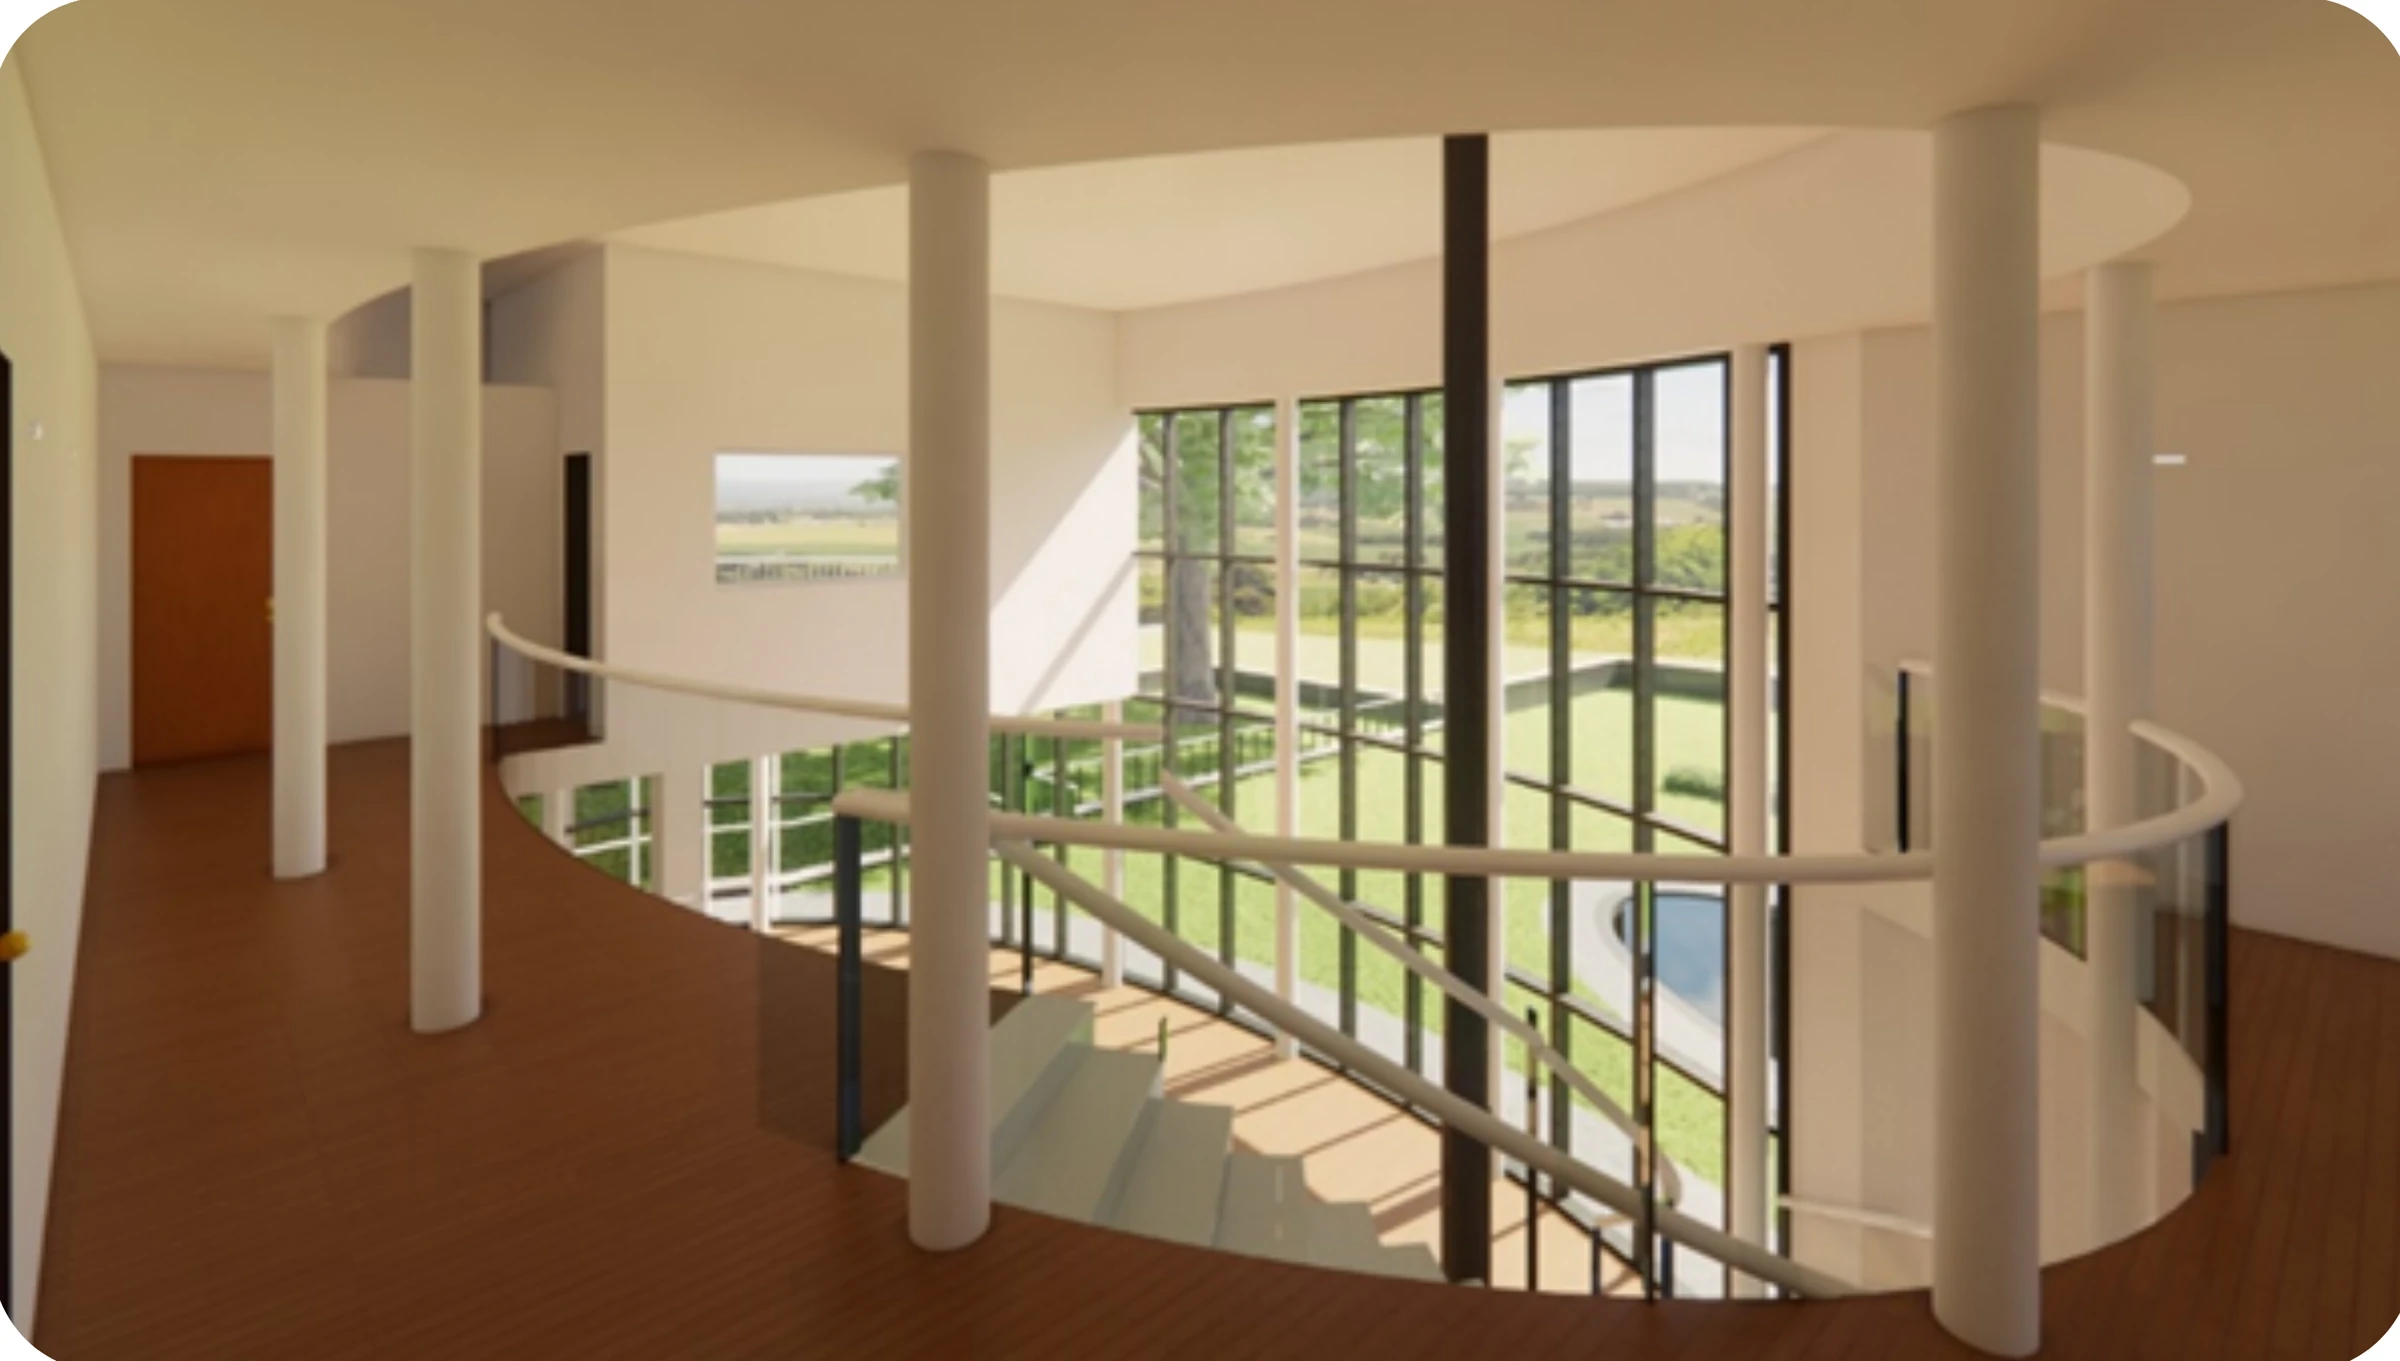
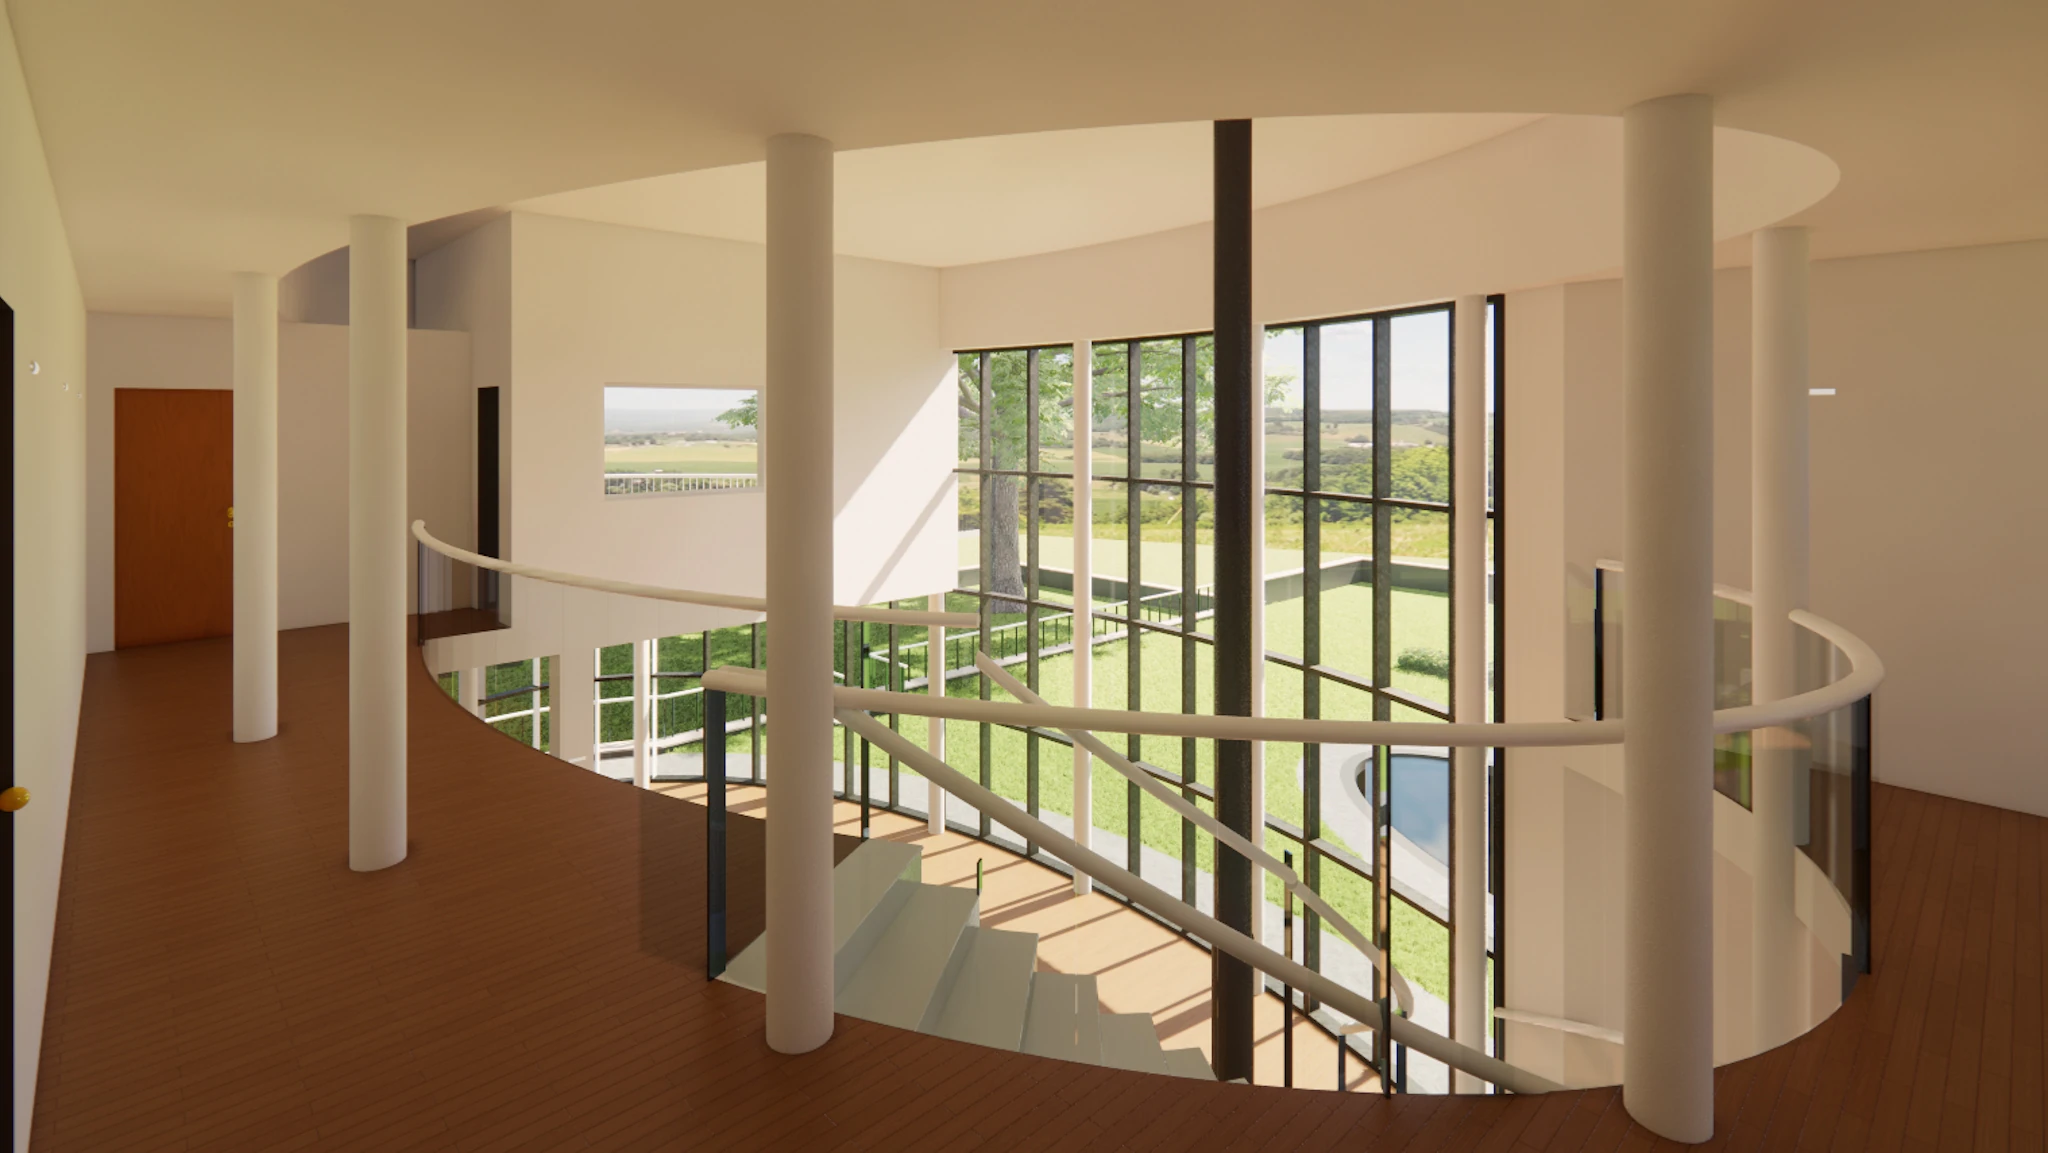
Upgrade the ACA House interior renders, match body text to sections
The two new interior renders had come out rotated 90 degrees — sofa
and staircase sideways, sky where a wall belonged. Rotated upright,
re-encoded as WebP at the filenames meta.json already references, and
the axonometric refreshed alongside them.

The intro body dropped to /70 opacity when the description gained its
own rule and full-strength ink; matching it back to /85 keeps it level
with each section's own body text rather than reading a step dimmer.

diff --git a/src/pages/ProjectDetail.jsx b/src/pages/ProjectDetail.jsx
@@ -342,7 +342,7 @@ export default function ProjectDetail() {
                   {project.description}
                 </p>
               )}
-              <div className="mt-6 space-y-5 leading-relaxed text-ink/70">
+              <div className="mt-6 space-y-5 leading-relaxed text-ink/85">
                 {(project.body ?? []).map((paragraph) => (
                   <p key={paragraph.slice(0, 32)}>{paragraph}</p>
                 ))}
